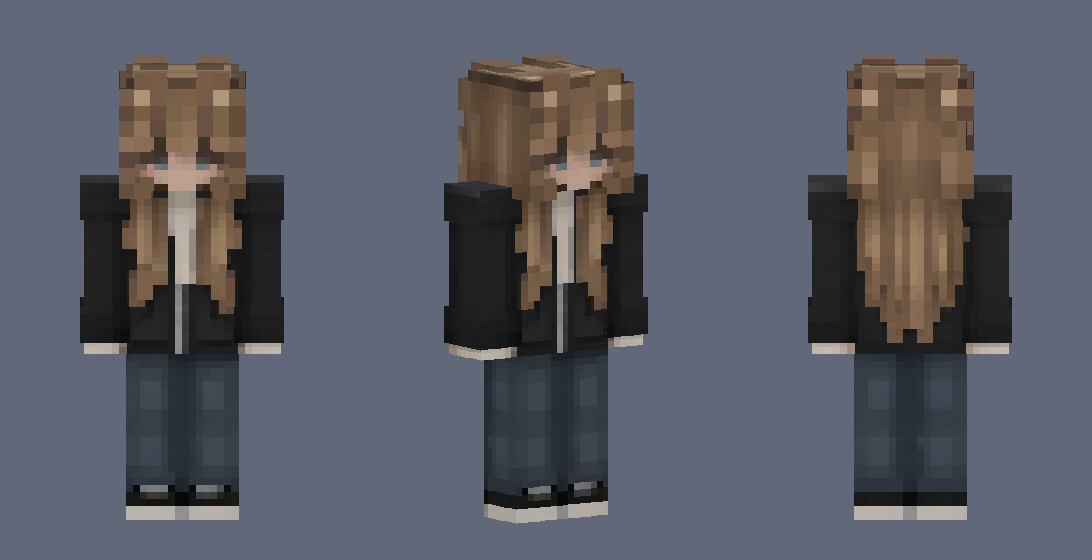
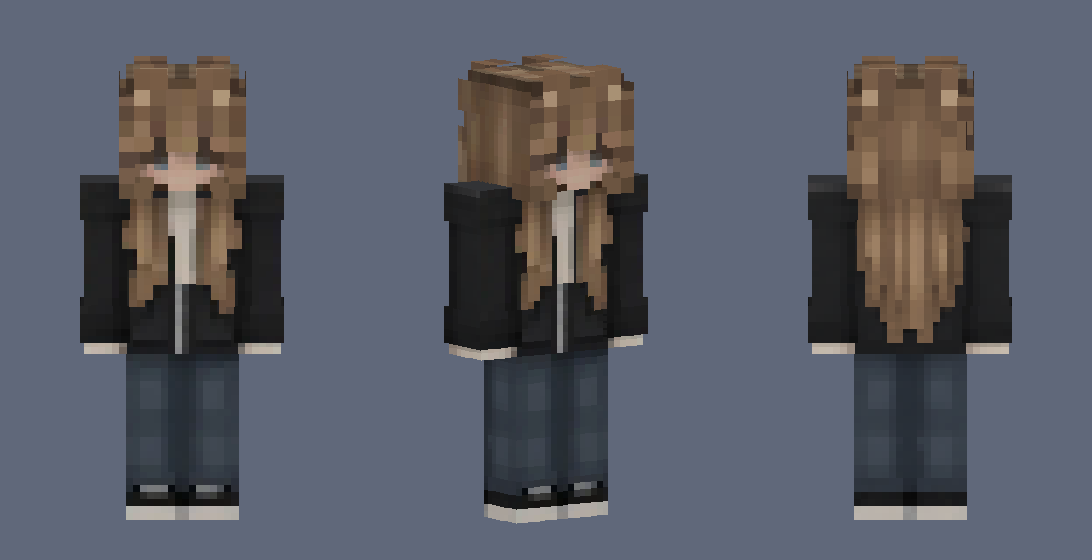
Head tufts as closed corner blocks on the 16x16 grid, parting and rounded corners cut out
Claude-Session: https://claude.ai/code/session_01E8KVnok6Fx7faRrVpDBB9K

diff --git a/minecraft-skin/make_skin.py b/minecraft-skin/make_skin.py
@@ -84,10 +84,11 @@ def build(slim=True):
         for j in (14, 15):
             c = face[i, j]
             if not is_hair(c) and (c[0] < 120 or c[0] - c[2] < 25): face[i, j] = face[i, 13]
-    tuft = lambda i: i//2 in (1, 2, 5, 6)                                  # the two tufts: blocks 2-3 and 6-7 of 8
-    toprow = lambda i, j, c: dark(c, .7) if (j < 2 and not tuft(i)) else c # base is shaded where the hat is cut away
+    tuft = lambda i: 2 <= i <= 5 or 10 <= i <= 13                          # the two tufts: columns 3-6 and 11-14 of 16
+    cut = lambda i, j: (j < 2 and not tuft(i)) or (j < 3 and i in (0, 1, 14, 15))   # parting + rounded outer corners
+    toprow = lambda i, j, c: dark(c, .7) if cut(i, j) else c               # base is shaded where the hat is cut away
     put(8, 8, face, fn=toprow)                                             # face + hair (base layer)
-    put(40, 8, face, keep=lambda i, j, c: lit(_hat8[i//2, j//2]) and (j >= 2 or tuft(i)))
+    put(40, 8, face, keep=lambda i, j, c: (lit(_hat8[i//2, j//2]) or (j < 2 and tuft(i))) and not cut(i, j))
     bk = fill_rows(back(262, 374, 694, 806, 16, 16)); bk8 = back(262, 374, 694, 806, 8, 8)
     for (i, j) in list(bk):
         blk = bk8[i//2, j//2]
@@ -95,7 +96,7 @@ def build(slim=True):
     bk = vsmooth(bk, lambda i, j: j >= 6 and 4 <= i <= 11)
     gap = lambda i, j: i in (0, 15) and 6 <= j <= 9                        # small gaps at the outer edge only
     put(24, 8, bk, fn=lambda i, j, c: SHADOW if gap(i, j) else toprow(i, j, c))
-    put(56, 8, bk, keep=lambda i, j, c: not gap(i, j) and (j >= 2 or tuft(i)),
+    put(56, 8, bk, keep=lambda i, j, c: not gap(i, j) and not cut(i, j),
         fn=lambda i, j, c: dark(c, .93) if 6 <= i <= 9 and j >= 2 else c)  # closed back, centre a touch darker
     side = fill_rows(quad(QH, (112, 925), (345, 958), (345, 1425), (115, 1398), 16, 16))
     side = vsmooth(side, lambda i, j: i < 12)                              # calm vertical strands
@@ -113,16 +114,15 @@ def build(slim=True):
         row = sorted(top[i, j] for i in range(16)); rm = row[len(row)//2]
         for i in range(16):
             top[i, j] = tuple(int(v*0.9) for v in rm) if i in (0, 15) else rm
-    for i in (2, 3, 12, 13):                                               # the two small highlights near the front
-        for j in (11, 12): top[i, j] = (200, 180, 155)
-    lid = lambda i, j: tuft(i) and (j < 6 or j >= 14)                      # lids close the tufts (back part and front edge)
+    lid = lambda i, j: tuft(i) and (j < 4 or j >= 12)                      # lids, 4 deep, meeting the back and front walls
+    lidc = lambda i, j: bk[i, 0] if j < 4 else face[i, 0]                  # same colour as the wall -> one closed block
     def top_base(i, j, c):
-        if lid(i, j): return dark(c, .55)
-        if i in (0, 15) or j in (0, 15): return dark(c, .62)
+        if lid(i, j): return lidc(i, j)                                    # no dark slit under the lids
+        if i in (7, 8): return dark(c, .5)                                 # parting line front to back
+        if 6 <= i <= 9 or i in (0, 1, 14, 15): return dark(c, .68)         # where the hat layer is cut away
         return dark(c, .84)
     put(8, 0, top, fn=top_base)
-    earc = quad(QH, (150, 885), (160, 885), (160, 892), (150, 892), 1, 1)[0, 0]
-    put(40, 0, top, keep=lambda i, j, c: lid(i, j), fn=lambda i, j, c: earc)
+    put(40, 0, top, keep=lambda i, j, c: lid(i, j), fn=lambda i, j, c: lidc(i, j))
     chin = front(300, 660, 590, 700, 16, 16)
     put(16, 0, chin, fn=lambda i, j, c: c if 2 <= i <= 13 and 2 <= j <= 13 else (95, 74, 58))
 
@@ -193,13 +193,12 @@ def v2(img):
         for j in range(17, 24): blend(64+i, 72+j, (230, 194, 134), .22)
     for (i, j) in ((6, 1), (9, 1), (7, 2), (8, 2)): px[40+i, 40+j] = (212, 176, 110, 255)   # necklace
     for i in (7, 8): px[40+i, 40+3] = (236, 186, 128, 255)                                   # heart pendant
-    GREY = (150, 140, 132, 255)                                                    # tufts as grey cat ears
+    GREY = (150, 140, 132, 255)                                                    # back tufts as grey cat ears
     for i in range(16):
-        for j in range(16):
-            if px[80+i, j][3]: px[80+i, j] = (236, 222, 218, 255) if (i % 8 in (3, 4) and 1 <= j <= 3) else GREY
+        for j in range(4):
+            if px[80+i, j][3]: px[80+i, j] = (236, 222, 218, 255) if (i in (3, 4, 11, 12) and j in (1, 2)) else GREY
         for j in (0, 1):
-            for ox in (80, 112):
-                if px[ox+i, 16+j][3]: px[ox+i, 16+j] = GREY
+            if px[112+i, 16+j][3]: px[112+i, 16+j] = GREY
     return img
 
 if __name__ == "__main__":
